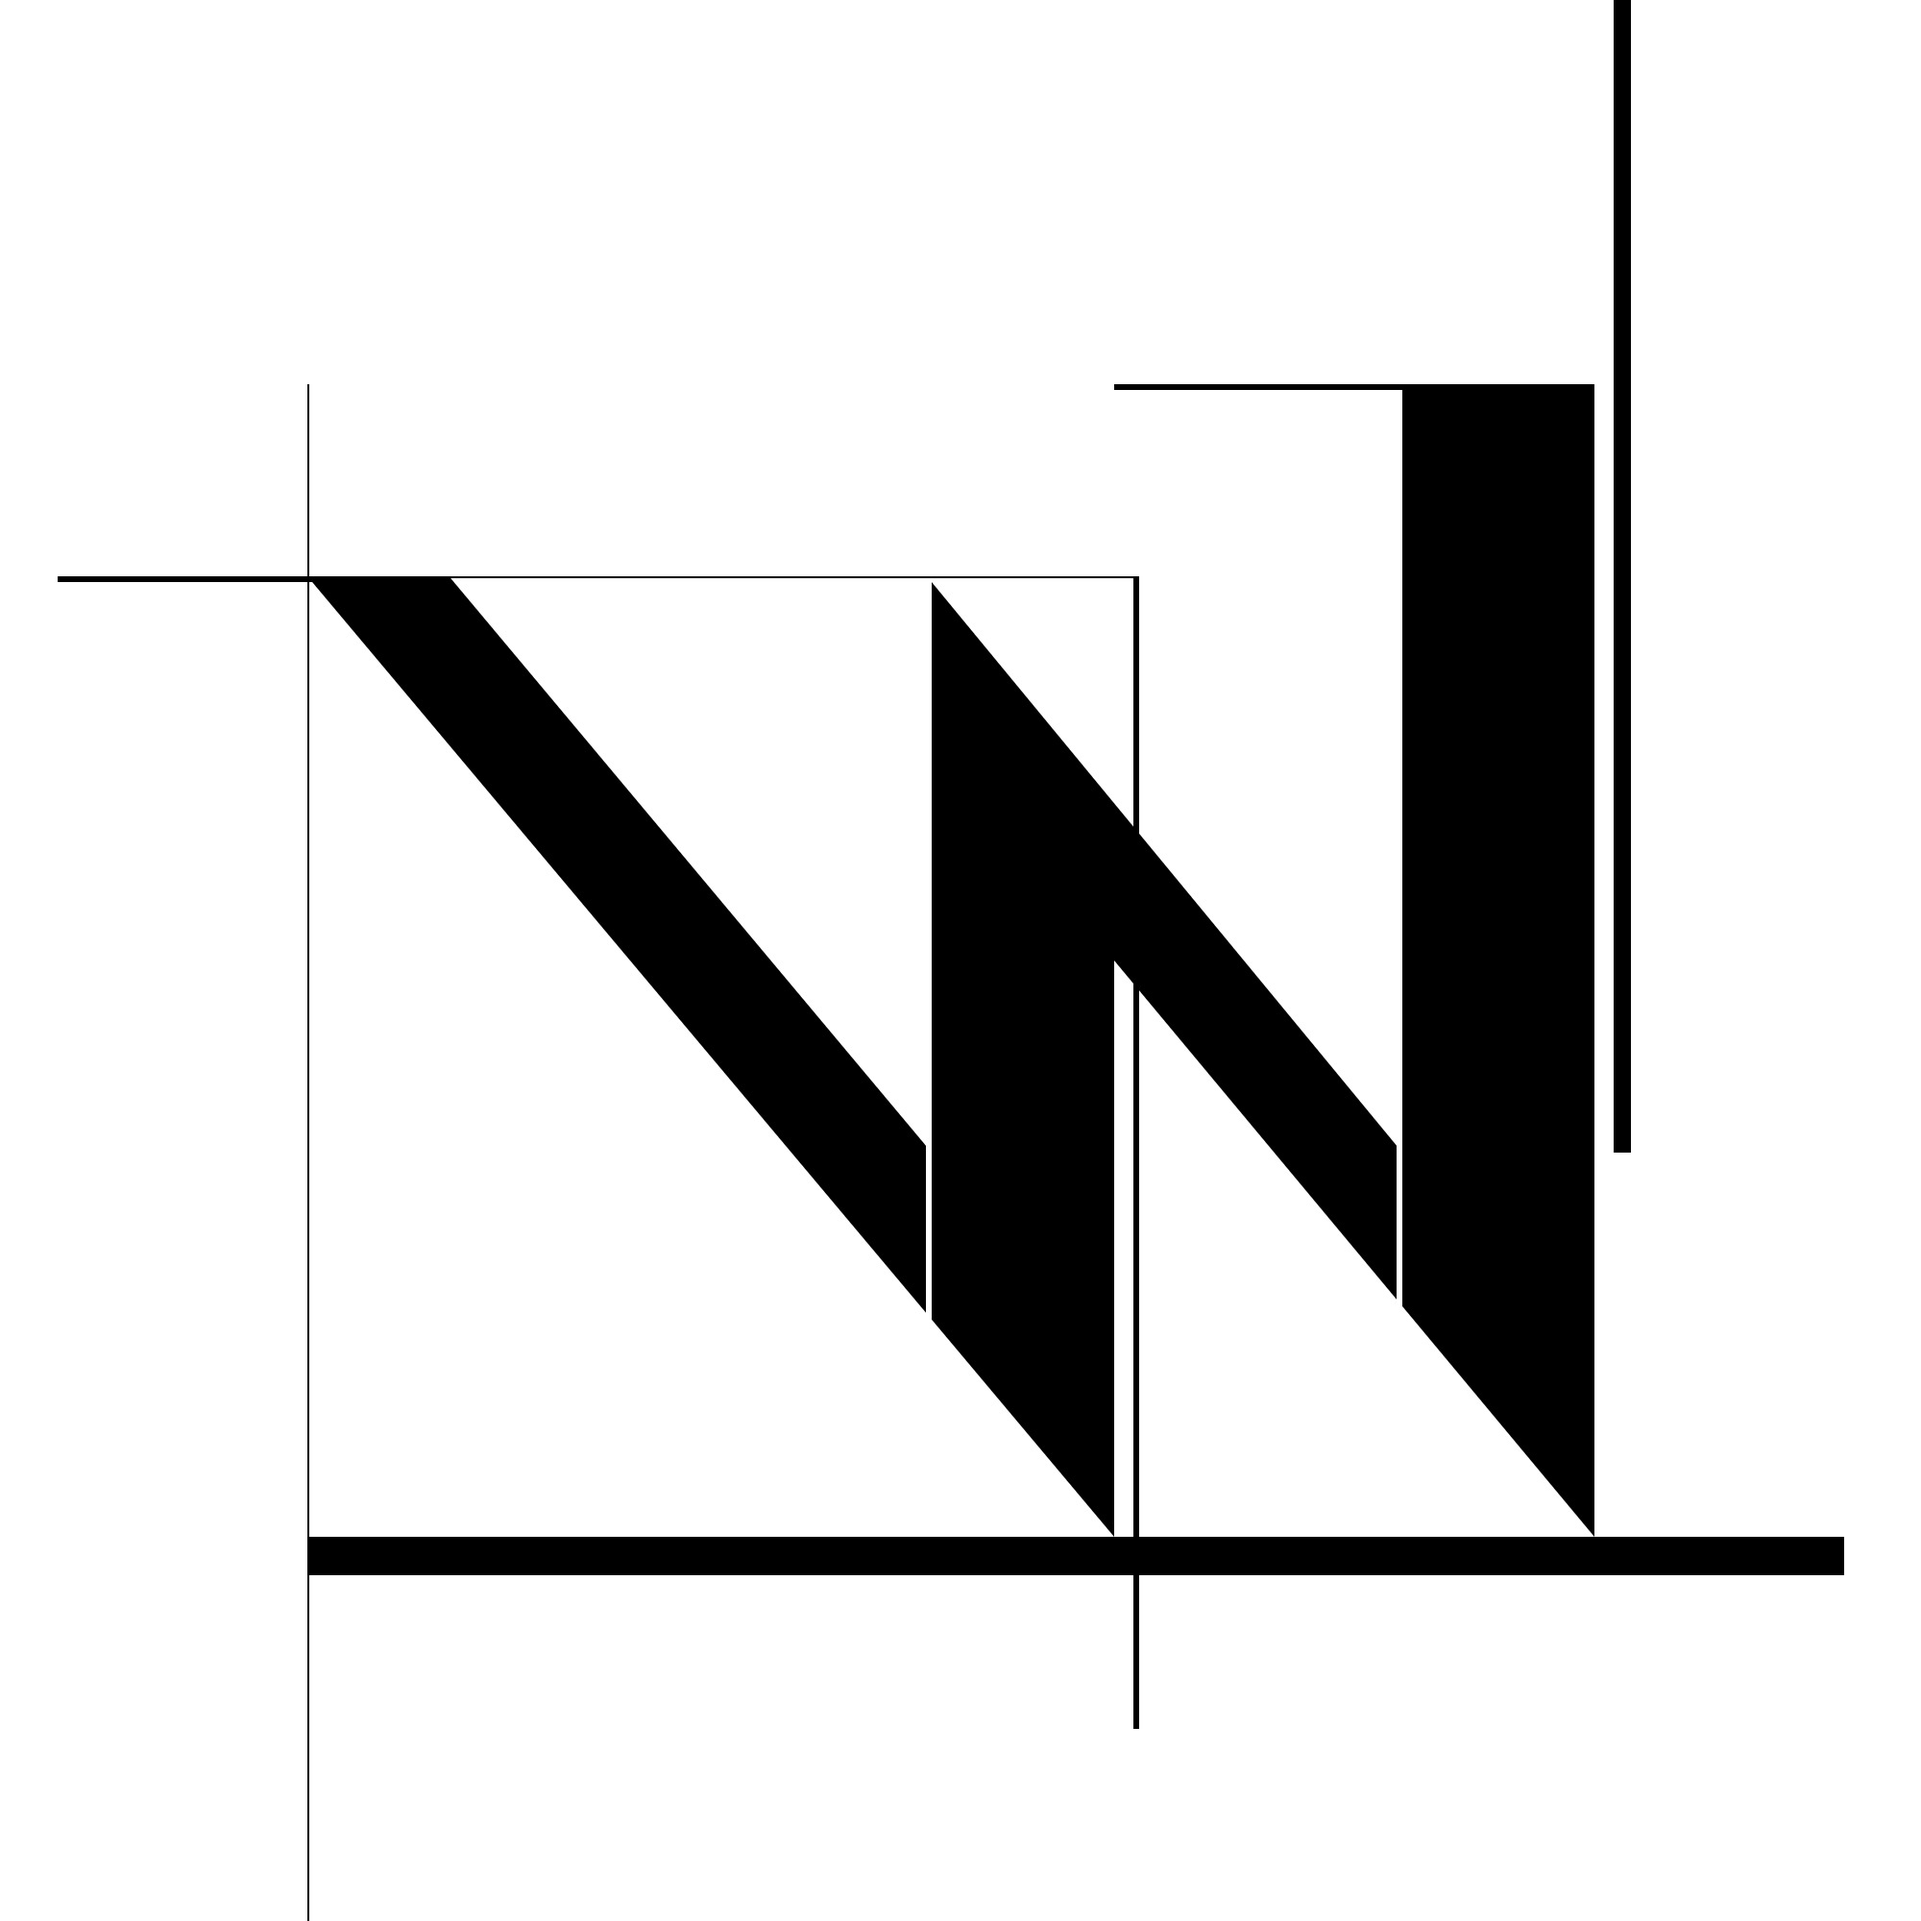
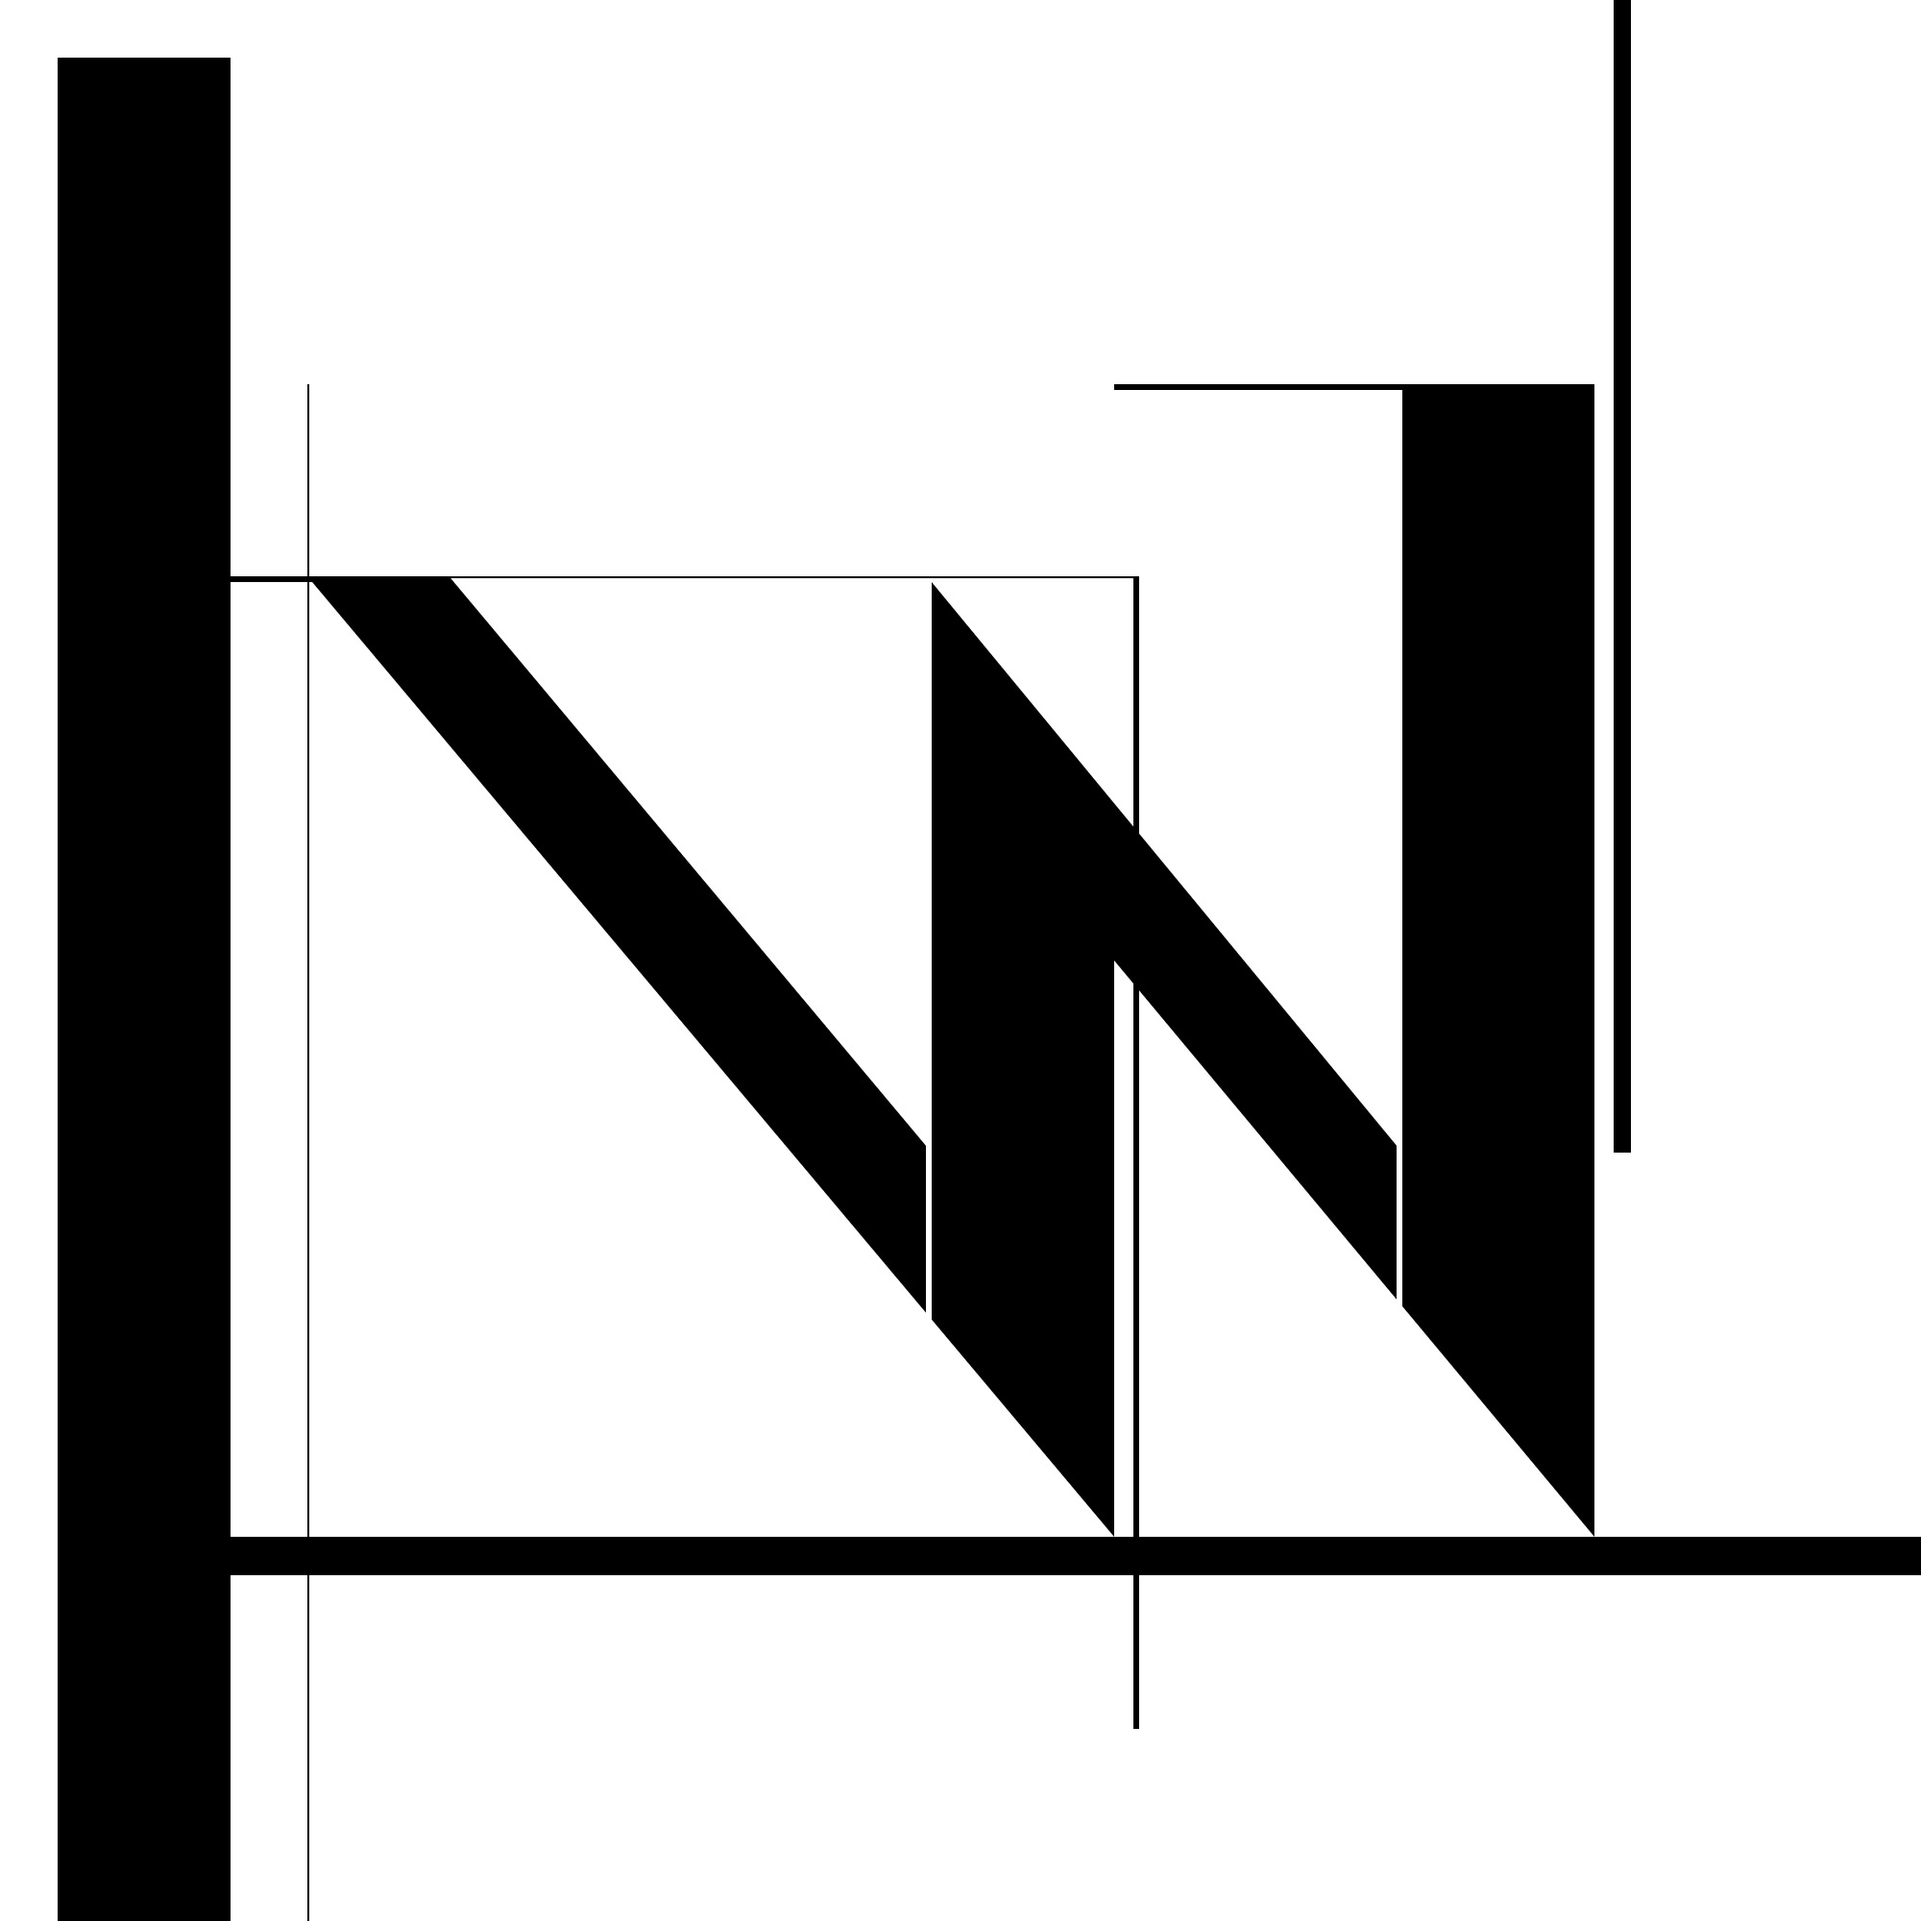
.

Changed region(s): [[0.031, 0.031, 0.155, 1.0], [0.961, 0.775, 1.0, 0.837]]

diff --git a/02/sketch.js b/02/sketch.js
@@ -22,8 +22,9 @@ function setup() {
   rect (190,300, 400, 1);
   rect (590,300, 3, 600);
   rect (840,0, 9, 600); //x,y,w,h
-  rect (160,800, 800,20);
+  rect (120,800, 900,20);
   rect (160,200, 1, 900);
+  rect (30,30, 90, 1000);
 
   fill(300);
   rect (482,350, 3, 400);
